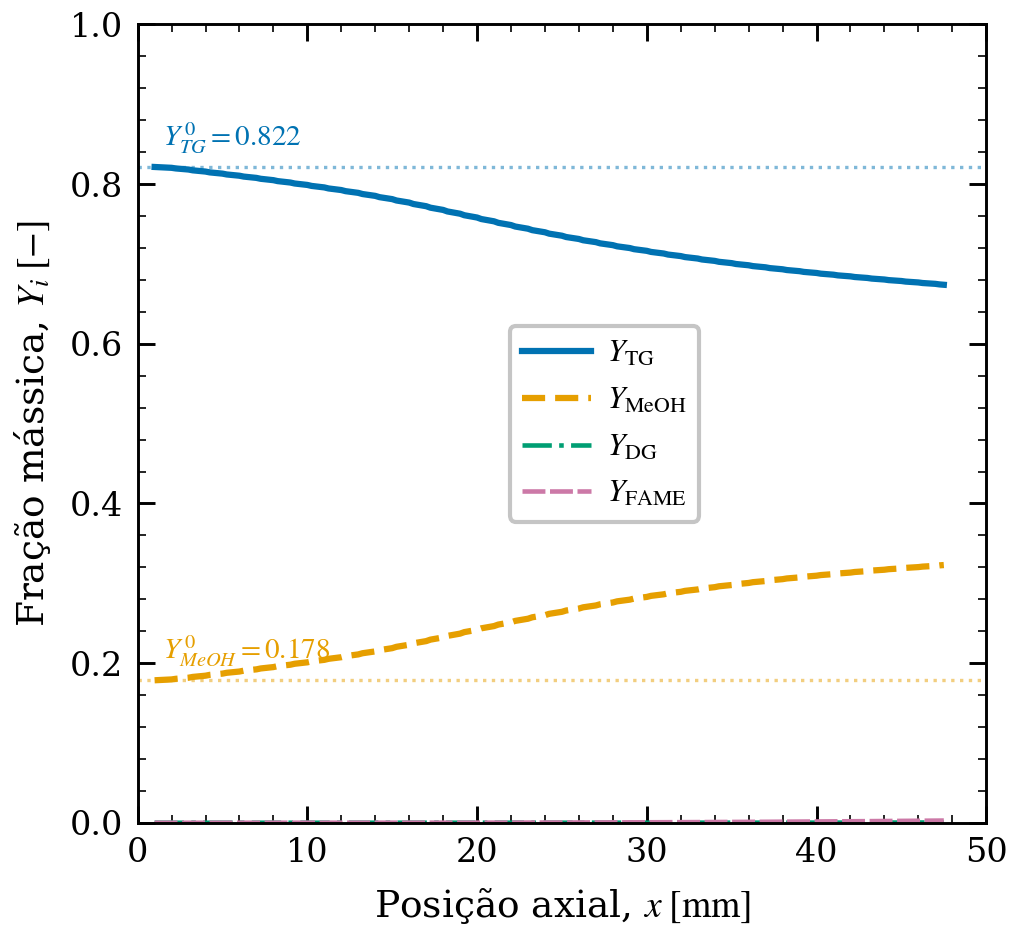
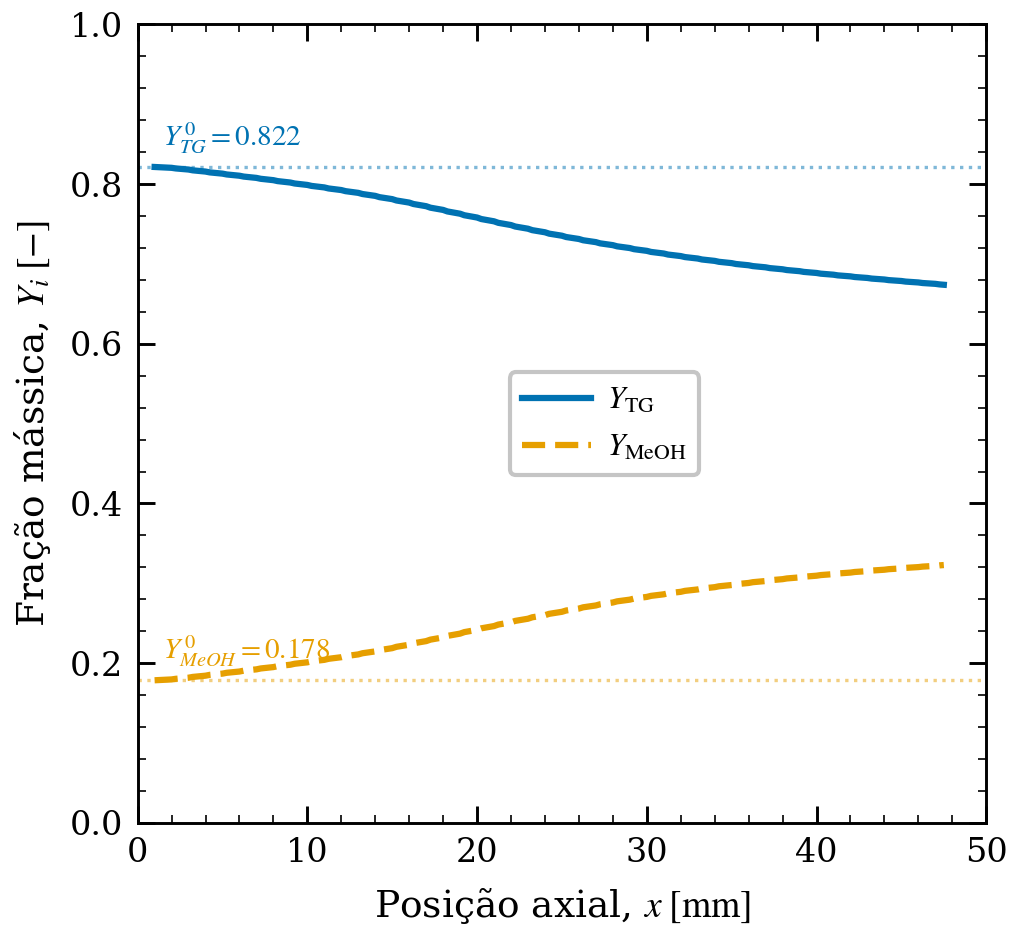
Remove DG and FAME from axial centerline plot (Fig 2)
Both species are < 0.3% mass fraction at centerline — invisible on a
0-1 linear scale and physically irrelevant there (reaction zone is at
Top_Wall). Centerline story is TG decay + MeOH redistribution only.
Intermediates are already shown in Fig 3 (log scale).

https://claude.ai/code/session_01UEYbUXbfbRZnyvUrgeujB3

Changed region(s): [[0.4868, 0.3401, 0.6997, 0.5565], [0.8518, 0.8657, 0.9127, 0.8966]]

diff --git a/biodiesel_monolith_cfd/scripts/plot_especies_fase2.py b/biodiesel_monolith_cfd/scripts/plot_especies_fase2.py
@@ -236,7 +236,7 @@ FIG2_W, FIG2_H = 3.465, 3.2
 
 fig2, ax2 = plt.subplots(figsize=(FIG2_W, FIG2_H))
 
-SP_AXIAL = ["TG", "MeOH", "DG", "FAME"]
+SP_AXIAL = ["TG", "MeOH"]
 
 for sp in SP_AXIAL:
     x_m, val = axial[sp]
